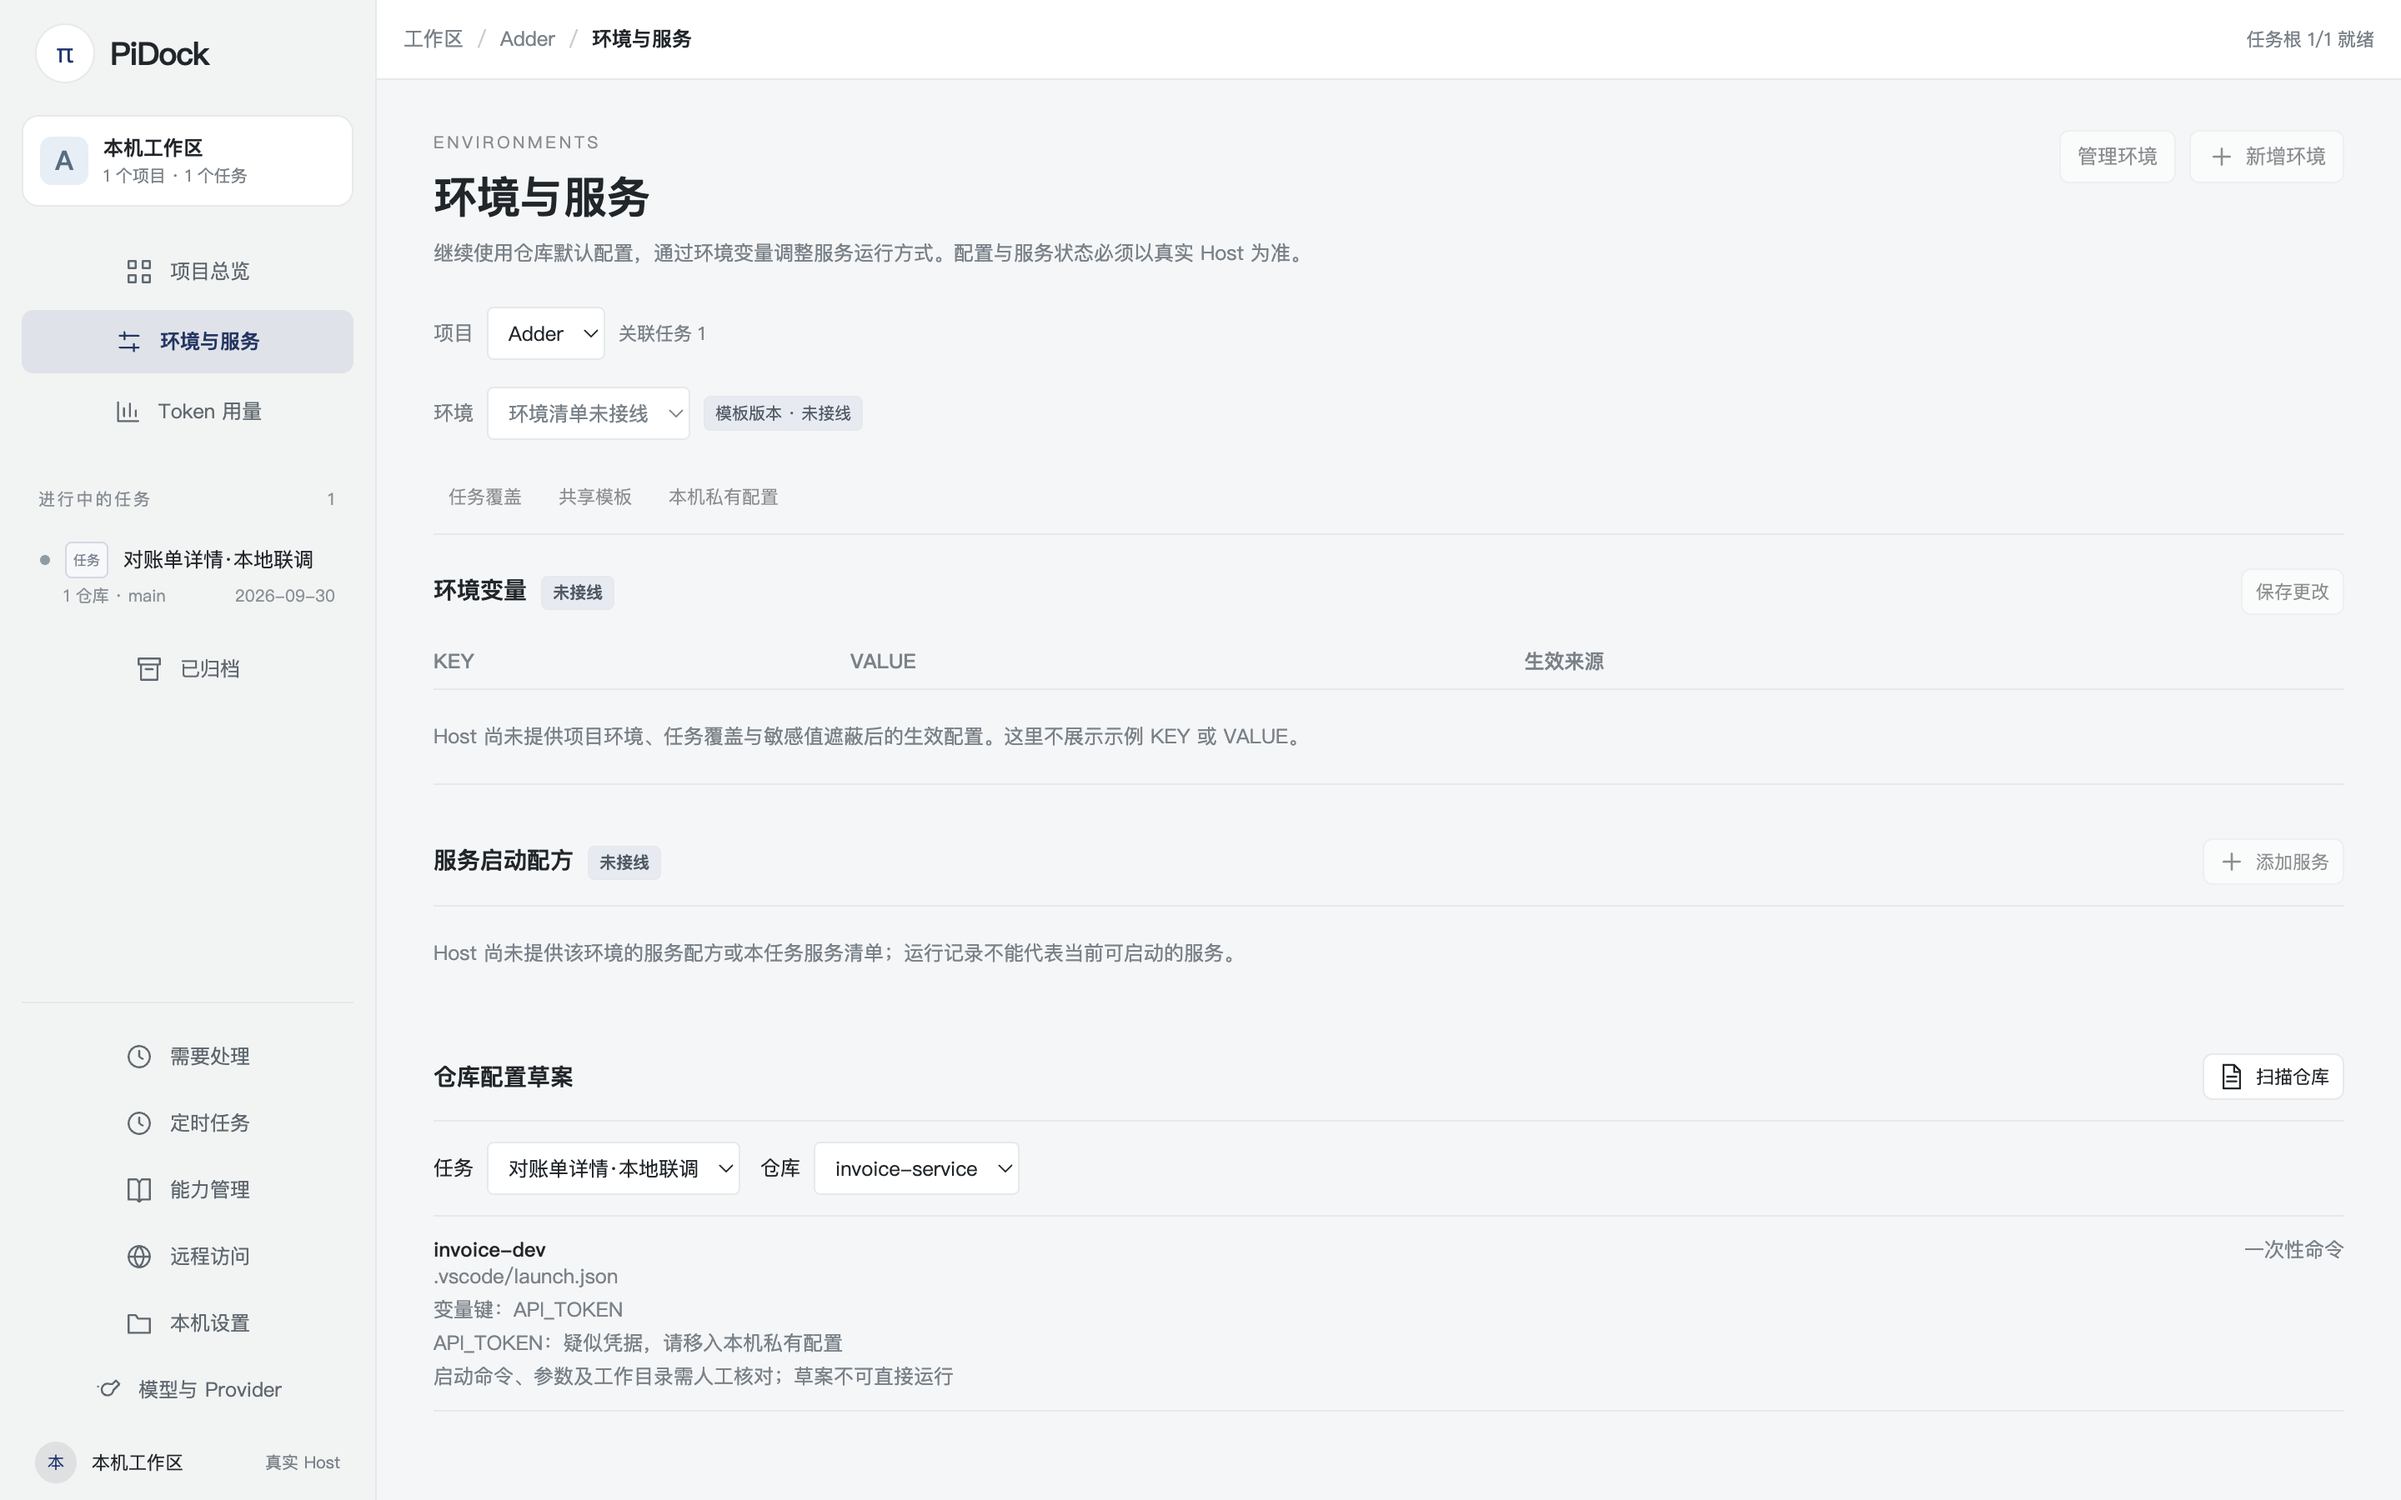
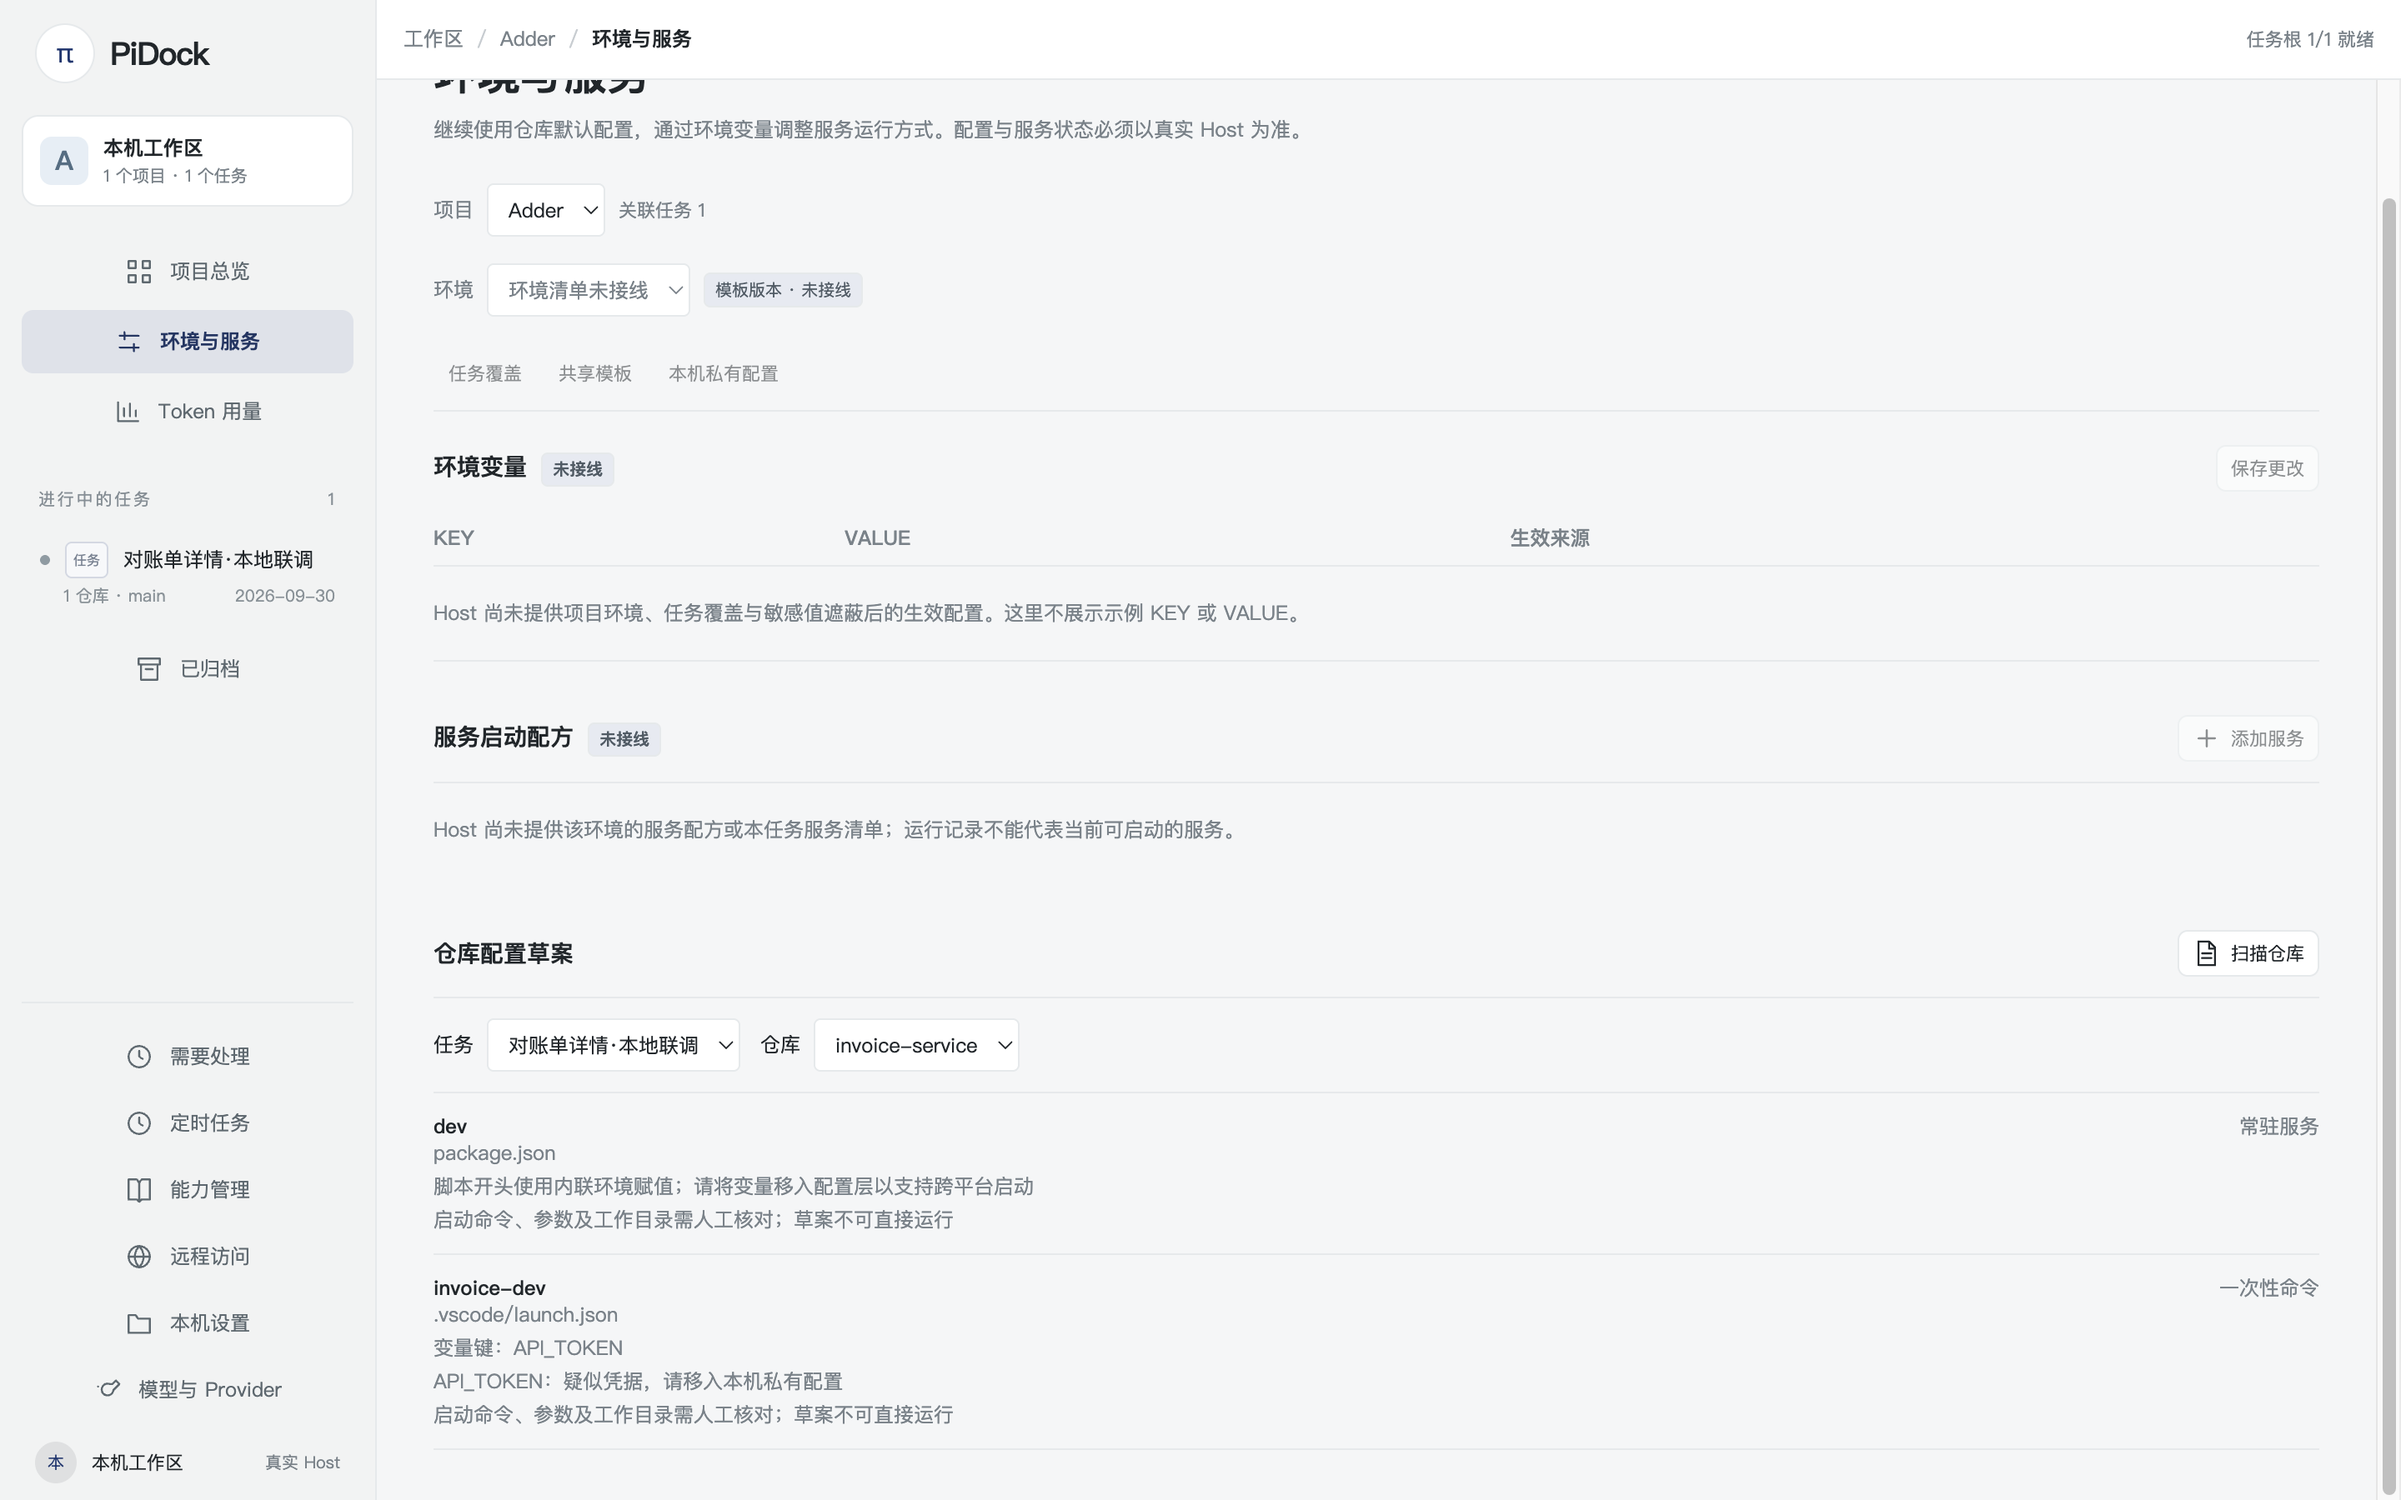
fix(host): flag nonportable inline service environment

diff --git a/packages/shell/src/host/service-import.ts b/packages/shell/src/host/service-import.ts
@@ -2,7 +2,7 @@ import { closeSync, constants, existsSync, fstatSync, lstatSync, openSync, readF
 import { join, relative, sep } from "node:path";
 import { parse as parseJsonc, type ParseError } from "jsonc-parser";
 import { parseDocument } from "yaml";
-import { classifyImportDraft, auditImportVars, type ServiceRunType } from "../main/service-config.js";
+import { classifyImportDraft, auditImportVars, SERVICE_KEY_PATTERN, type ServiceRunType } from "../main/service-config.js";
 import type { WorkspaceRoot } from "../main/workspace-files.js";
 
 export interface ServiceImportHint {
@@ -62,11 +62,16 @@ function envAudit(value: unknown) {
     value: typeof raw === "string" ? raw : object(raw) && typeof raw["value"] === "string" ? raw["value"] : "",
   }));
   const audit = auditImportVars(rows, { sharedDraft: true });
-  const malformed = value !== undefined && !object(value) && !Array.isArray(value);
+  const malformed = value !== undefined && !object(value) && (!Array.isArray(value) || value.some((entry) => typeof entry !== "string"));
   const warnings = [...audit.toVerify.map(display), ...(malformed ? ["环境变量结构无效，请人工核对"] : []),
     ...(entries.length > MAX_ENV_ROWS ? ["环境变量列表已截断，请人工核对"] : [])];
   return { envKeys: rows.map((row) => row.key), invalidVars: audit.invalidVars.map(display),
     toVerify: warnings.length > MAX_WARNINGS ? [...warnings.slice(0, MAX_WARNINGS), "待核对项已截断"] : warnings };
+}
+
+function inlineAssignmentKey(command: string): string | null {
+  const match = /^\s*(?:(?:export|set)\s+)?([^\s=]+)=/i.exec(command);
+  return match ? match[1] ?? "" : null;
 }
 
 export function scanTaskServiceImportHints(input: { taskDir: string; roots: readonly WorkspaceRoot[] }, rootId: string): ServiceImportScan {
@@ -89,8 +94,12 @@ export function scanServiceImportHints(repoRoot: string): ServiceImportScan {
   const add = (source: string, name: string, command: string, env?: unknown) => {
     if (hints.length >= MAX_HINTS) { truncated = true; return; }
     const audit = envAudit(env);
+    const inlineKey = source === "package.json" ? inlineAssignmentKey(command) : null;
+    const invalidVars = inlineKey && !SERVICE_KEY_PATTERN.test(inlineKey) ? [...audit.invalidVars, display(inlineKey)] : audit.invalidVars;
     hints.push({ source, name: display(name), runType: classifyImportDraft({ name, command: `${name} ${command}`, origin: "unknown" }).runType,
-      ...audit, toVerify: [...audit.toVerify, "启动命令、参数及工作目录需人工核对；草案不可直接运行"] });
+      ...audit, invalidVars, toVerify: [...audit.toVerify,
+        ...(inlineKey ? ["脚本开头使用内联环境赋值；请将变量移入配置层以支持跨平台启动"] : []),
+        "启动命令、参数及工作目录需人工核对；草案不可直接运行"] });
   };
   for (const source of SOURCES) {
     try {

diff --git a/packages/shell/src/host/service-import.test.ts b/packages/shell/src/host/service-import.test.ts
@@ -36,6 +36,24 @@ describe("#7 real repository service-import hints", () => {
     expect(JSON.stringify(scan)).not.toContain("server.js");
   });
 
+  it("flags inline env assignments and malformed Compose lists without exposing their values", () => {
+    const repo = root();
+    writeFileSync(join(repo, "package.json"), JSON.stringify({ scripts: {
+      dev: "PORT=4100 API_TOKEN=secret-token node server.js",
+      broken: "1INVALID=secret-token node server.js",
+      plain: "node server.js",
+    } }));
+    writeFileSync(join(repo, "compose.yaml"), `services:\n  api:\n    environment:\n      - API_TOKEN=secret-token\n      - 42\n`);
+    const scan = scanServiceImportHints(repo);
+    expect(scan.hints[0]?.envKeys).toEqual([]);
+    expect(scan.hints[0]?.toVerify).toContain("脚本开头使用内联环境赋值；请将变量移入配置层以支持跨平台启动");
+    expect(scan.hints[1]?.invalidVars).toContain("1INVALID");
+    expect(scan.hints[2]?.toVerify).not.toContain("脚本开头使用内联环境赋值；请将变量移入配置层以支持跨平台启动");
+    expect(scan.hints[3]?.toVerify).toContain("环境变量结构无效，请人工核对");
+    expect(JSON.stringify(scan)).not.toContain("secret-token");
+    expect(JSON.stringify(scan)).not.toContain("server.js");
+  });
+
   it("signals truncated results and invalid environment structures", () => {
     const repo = root();
     writeFileSync(join(repo, "package.json"), JSON.stringify({ scripts: Object.fromEntries(
